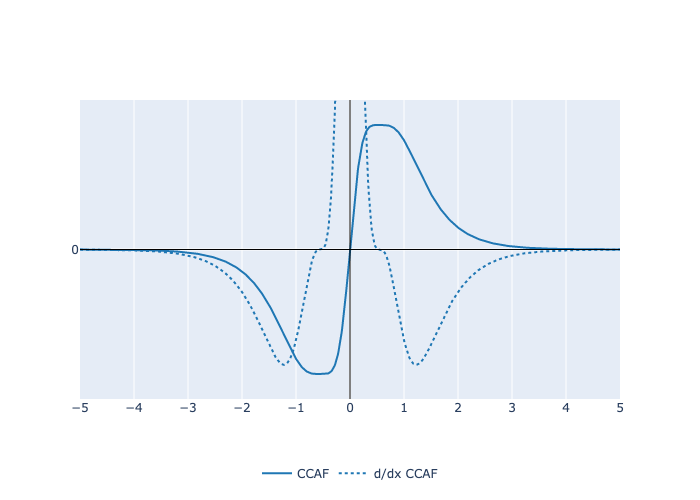
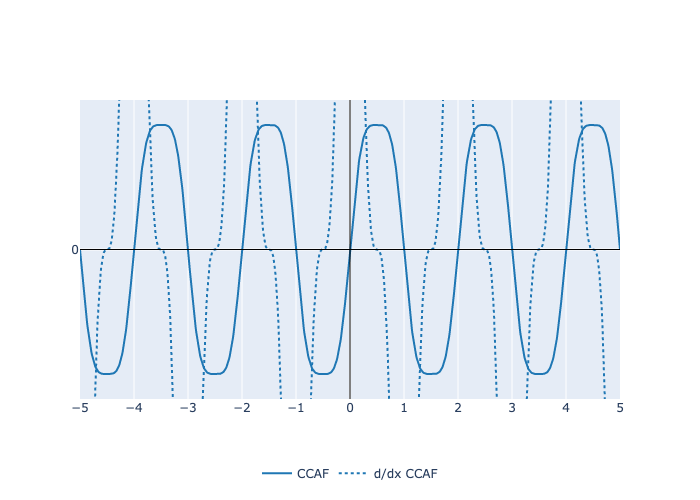
fix: 10 formula bugs across glu, etanh, exp, caf, adaptive
glu.py: GReLU, GEGLU, ReGLU, SwiGLU had gate operands swapped;
  z⊗f(z') not f(z)⊗z'
etanh.py: EvolvedTanhReLU scale a applied to tanh only, not full sum
exp.py: Polyexp exp factor applied to c only, not full polynomial;
  Wave exponent of (1-z^2) vs z^2 * exp
caf.py: CCAF had spurious tanh pre-normalization absent from paper
adaptive/relu.py: DELU boundary <= vs < docstring
adaptive/sigmoid_weighted.py: GPSoftmax gpm_func used beta+1 not beta

Update tests and regenerate plots for all affected classes.

diff --git a/torch_activation/classical/exp.py b/torch_activation/classical/exp.py
@@ -10,7 +10,7 @@ class Polyexp(BaseActivation):
     r"""
     Applies the Polyexp activation function:
 
-    :math:`\text{Polyexp}(z) = a \cdot z^2 + b \cdot z + c \cdot \exp(-d \cdot z^2)`
+    :math:`\text{Polyexp}(z) = (a \cdot z^2 + b \cdot z + c) \cdot \exp(-d \cdot z^2)`
 
     Args:
         a (float, optional): parameter for the quadratic term. Default: ``1.0``
@@ -43,7 +43,7 @@ class Polyexp(BaseActivation):
         # Unused
 
     def _forward(self, z) -> Tensor:
-        return self.a * z**2 + self.b * z + self.c * torch.exp(-self.d * z**2)
+        return (self.a * z**2 + self.b * z + self.c) * torch.exp(-self.d * z**2)
 
 
 @register_activation
@@ -117,7 +117,7 @@ class Wave(BaseActivation):
     r"""
     Applies the Wave activation function:
 
-    :math:`\text{Wave}(z) = 1 - z^2 \cdot \exp(-a \cdot z^2)`
+    :math:`\text{Wave}(z) = (1 - z^2) \cdot \exp(-a \cdot z^2)`
 
     Args:
         a (float, optional): parameter for the exponential decay. Default: ``1.0``
@@ -144,4 +144,4 @@ class Wave(BaseActivation):
         # Unused
 
     def _forward(self, z) -> Tensor:
-        return 1 - z**2 * torch.exp(-self.a * z**2)
+        return (1 - z**2) * torch.exp(-self.a * z**2)

diff --git a/torch_activation/classical/glu.py b/torch_activation/classical/glu.py
@@ -110,7 +110,7 @@ class GReLU(BaseActivation):
 
     def _forward(self, x: Tensor) -> Tensor:
         a, b = split(x, self.dim)
-        return F.relu(a) * b
+        return a * F.relu(b)
 
 
 class GEGLU(BaseActivation):
@@ -147,7 +147,7 @@ class GEGLU(BaseActivation):
 
     def _forward(self, x: Tensor) -> Tensor:
         a, b = split(x, self.dim)
-        return F.gelu(a) * b
+        return a * F.gelu(b)
 
 
 class ReGLU(BaseActivation):
@@ -184,7 +184,7 @@ class ReGLU(BaseActivation):
 
     def _forward(self, x: Tensor) -> Tensor:
         a, b = split(x, self.dim)
-        return F.relu(a) * b
+        return a * F.relu(b)
 
 
 class SwiGLU(BaseActivation):
@@ -221,4 +221,4 @@ class SwiGLU(BaseActivation):
 
     def _forward(self, x: Tensor) -> Tensor:
         a, b = split(x, self.dim)
-        return tac.Swish()(a) * b
+        return a * tac.Swish()(b)

diff --git a/torch_activation/classical/caf.py b/torch_activation/classical/caf.py
@@ -184,7 +184,7 @@ class CCAF(BaseActivation):
 
     .. math::
 
-        \tilde{z}_i = \tanh(z_i), \quad f(\tilde{z}_{i+1}) = a \cdot \sin(\pi \cdot b \cdot \sin(\pi \tilde{z}_i))
+        f(z_{i+1}) = a \cdot \sin(\pi \cdot b \cdot \sin(\pi z_i))
 
     where :math:`a, b \in [0, 1]`.
 
@@ -217,11 +217,7 @@ class CCAF(BaseActivation):
         self.iterations = iterations
 
     def _forward(self, x: Tensor) -> Tensor:
-        # Normalize input to [-1,1] range for sine stability
-        z = torch.tanh(x)
-
+        z = x
         for _ in range(self.iterations):
-            # Apply the cascade chaotic map
             z = self.a * torch.sin(torch.pi * self.b * torch.sin(torch.pi * z))
-
         return z

diff --git a/torch_activation/classical/etanh.py b/torch_activation/classical/etanh.py
@@ -48,7 +48,7 @@ class EvolvedTanhReLU(BaseActivation):
     r"""
     Applies the evolved combination of tanh and ReLU activation function:
 
-    :math:`\text{EvolvedTanhReLU}(z) = a \cdot \tanh(z^2) + \text{ReLU}(z)`
+    :math:`\text{EvolvedTanhReLU}(z) = a \cdot (\tanh(z^2) + \text{ReLU}(z))`
 
     Args:
         a (float, optional): Scaling parameter. Default: ``1.0``
@@ -78,7 +78,7 @@ class EvolvedTanhReLU(BaseActivation):
         self.a = a
 
     def _forward(self, z) -> Tensor:
-        return self.a * torch.tanh(z**2) + torch.relu(z)
+        return self.a * (torch.tanh(z**2) + torch.relu(z))
 
 
 @register_activation

diff --git a/torch_activation/adaptive/sigmoid_weighted.py b/torch_activation/adaptive/sigmoid_weighted.py
@@ -977,7 +977,7 @@ class GPSoftmax(BaseActivation):
         GPM_{\alpha, \beta}(x) = (ln( sum(\alpha^{\beta x_k}) ) - ln(N)) / (\beta ln(\alpha))
         """
         log_alpha: Tensor = torch.log(torch.clamp(alpha, min=1e-8))
-        b: Tensor = torch.multiply(beta + 1, x)
+        b: Tensor = torch.multiply(beta, x)
         first_part: Tensor = torch.logsumexp(b * log_alpha, dim=-1, keepdim=True)
 
         second_part = torch.log(torch.tensor(float(self.input_size)))

diff --git a/torch_activation/adaptive/relu.py b/torch_activation/adaptive/relu.py
@@ -119,7 +119,7 @@ class DELU(BaseActivation):
     r"""
     Applies the DELU activation function:
 
-    :math:`\text{DELU}(x) = \begin{cases} \text{SiLU}(x), & x \leq 0 \\ (n + 0.5) \cdot x + |\exp(-x) - 1|, & x > 0 \end{cases}` # noqa: E501
+    :math:`\text{DELU}(x) = \begin{cases} \text{SiLU}(x), & x < 0 \\ (n + 0.5) \cdot x + |\exp(-x) - 1|, & x \geq 0 \end{cases}` # noqa: E501
 
      See: https://doi.org/10.20944/preprints202301.0463.v1
 

diff --git a/test/test_swiglu.py b/test/test_swiglu.py
@@ -27,7 +27,7 @@ class TestNumerical:
         m = _get_module()
         x = torch.randn(4, 6)
         a, b = x.chunk(2, dim=-1)
-        expected = a * torch.sigmoid(a) * b
+        expected = a * (b * torch.sigmoid(b))
         assert torch.allclose(m(x), expected, atol=1e-5)
 
 

diff --git a/test/test_geglu.py b/test/test_geglu.py
@@ -28,7 +28,7 @@ class TestNumerical:
         m = _get_module()
         x = torch.randn(4, 6)
         a, b = x.chunk(2, dim=-1)
-        expected = F.gelu(a) * b
+        expected = a * F.gelu(b)
         assert torch.allclose(m(x), expected, atol=1e-5)
 
 

diff --git a/test/test_reglu.py b/test/test_reglu.py
@@ -28,7 +28,7 @@ class TestNumerical:
         m = _get_module()
         x = torch.randn(4, 4)
         a, b = x.chunk(2, dim=-1)
-        expected = F.relu(a) * b
+        expected = a * F.relu(b)
         assert torch.allclose(m(x), expected, atol=1e-5)
 
 

diff --git a/test/test_polyexp.py b/test/test_polyexp.py
@@ -13,7 +13,7 @@ def scalar_ref(x: float) -> float:
     import math
 
     a, b, c, d = 1.0, 1.0, 1.0, 1.0
-    return a * x**2 + b * x + c * math.exp(-d * x**2)
+    return (a * x**2 + b * x + c) * math.exp(-d * x**2)
 
 
 def _get_module(**kwargs):

diff --git a/test/test_ccaf.py b/test/test_ccaf.py
@@ -10,7 +10,7 @@ ACTIVATION_NAME = "CCAF"
 
 
 def scalar_ref(x: float) -> float:
-    z = math.tanh(x)
+    z = x
     a, b = 0.5, 0.5
     z = a * math.sin(math.pi * b * math.sin(math.pi * z))
     return z

diff --git a/test/test_wave.py b/test/test_wave.py
@@ -13,7 +13,7 @@ def scalar_ref(x: float) -> float:
     import math
 
     a = 1.0
-    return 1 - x**2 * math.exp(-a * x**2)
+    return (1 - x**2) * math.exp(-a * x**2)
 
 
 def _get_module(**kwargs):
